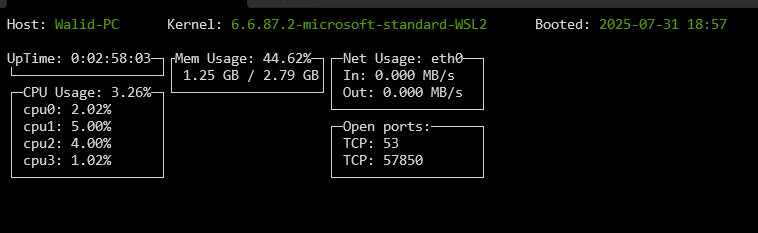
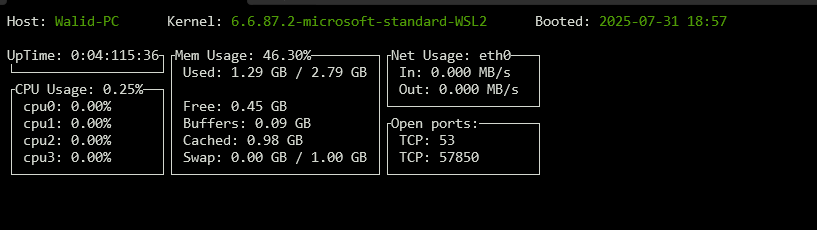
Added more ram info

diff --git a/src/mem.cpp b/src/mem.cpp
@@ -10,7 +10,7 @@ MemInfo::MemInfo()
     std::string Line;
 
     while(std::getline(File, Line)) {
-        if(Line.compare(0, 9, "MemTotal:") == 0) {
+        if(Line.rfind("MemTotal:") == 0) {
             std::istringstream iss(Line);
             std::string label, unit;
 
@@ -21,51 +21,107 @@ MemInfo::MemInfo()
 
             oss << std::fixed << std::setprecision(2) << totalMemGb << " GB";
             totalMemStr = oss.str();
+        } else if(Line.rfind("SwapTotal:") == 0) {
+            std::istringstream iss(Line);
+            std::string label, unit;
+
+            iss >> label >> totalMemSwapNum >> unit;
+
+            double totalMemSwapGb = static_cast<double>(totalMemSwapNum) / (1024 * 1024);
+            std::ostringstream oss;
+
+            oss << std::fixed << std::setprecision(2) << totalMemSwapGb << " GB";
+            totalMemSwapStr = oss.str();
 
             break;
         }
     }
 }
 
-void MemInfo::displayInfo(WINDOW *win, int width)
+void MemInfo::displayInfo(WINDOW *win)
 {
-    unsigned long long memUsage = readMemUsage();
-    double memUsageNum = static_cast<double>(memUsage) / (1024 * 1024);
-    
-    std::ostringstream oss;
-    oss << std::fixed << std::setprecision(2) << 100.0 * memUsage / totalMemNum << "%";
-    std::string memTitle = "Mem Usage: " + oss.str();
-
-    std::ostringstream oss2;
-    oss2 << std::fixed << std::setprecision(2) << memUsageNum << " GB";
+    MemData memdata = readMemData();
     
     wclear(win);
     box(win, 0, 0);
+
+    std::ostringstream oss;
+    oss << std::fixed << std::setprecision(2) << 100.0 * memdata.memusage / totalMemNum << "%";
+    mvwprintw(win, 0, 1, "Mem Usage: %s", oss.str().c_str());
     
-    mvwprintw(win, 0, std::max(1, (int)(width - memTitle.size()) / 2), "%s", memTitle.c_str());
-    mvwprintw(win, 1, 2, "%s / %s", oss2.str().c_str(), totalMemStr.c_str());
-    
+    printInGb(win, 1, "Used:", memdata.memusage, true, totalMemStr.c_str());
+    printInGb(win, 3, "Free:", memdata.memfree);
+    printInGb(win, 4, "Buffers:", memdata.membuffers);
+    printInGb(win, 5, "Cached:", memdata.memcached);
+    printInGb(win, 6, "Swap:", memdata.memswapusage, true, totalMemSwapStr.c_str());
+
     wrefresh(win);
 }
 
-unsigned long long MemInfo::readMemUsage()
+MemData MemInfo::readMemData()
 {
     //std::this_thread::sleep_for(std::chrono::milliseconds(1000));
-
+    MemData memdata;
     std::ifstream File("/proc/meminfo");
     std::string Line;
 
     while(std::getline(File, Line)) {
-        if(Line.compare(0, 13, "MemAvailable:") == 0) {
+        if(Line.rfind("MemFree:") == 0) {
             std::istringstream iss(Line);
             std::string label, unit;
-            unsigned long long availableMem;
+            unsigned long long memfree;
 
-            iss >> label >> availableMem >> unit;
+            iss >> label >> memfree >> unit;
 
-            return totalMemNum - availableMem;
+            memdata.memfree = memfree;
+        } else if(Line.rfind("MemAvailable:") == 0) {
+            std::istringstream iss(Line);
+            std::string label, unit;
+            unsigned long long memavailable;
+
+            iss >> label >> memavailable >> unit;
+
+            memdata.memusage = totalMemNum - memavailable;
+        } else if(Line.rfind("Buffers:") == 0) {
+            std::istringstream iss(Line);
+            std::string label, unit;
+            unsigned long long membuffers;
+
+            iss >> label >> membuffers >> unit;
+
+            memdata.membuffers = membuffers;
+        } else if(Line.rfind("Cached:") == 0) {
+            std::istringstream iss(Line);
+            std::string label, unit;
+            unsigned long long cached;
+
+            iss >> label >> cached >> unit;
+
+            memdata.memcached = cached;
+        } else if(Line.rfind("SwapFree:") == 0) {
+            std::istringstream iss(Line);
+            std::string label, unit;
+            unsigned long long memswapfree;
+
+            iss >> label >> memswapfree >> unit;
+
+            memdata.memswapusage = totalMemSwapNum - memswapfree;
+
+            break;
         }
     }
 
-    return 0;
+    return memdata;
+}
+
+void MemInfo::printInGb(WINDOW* win, const int pos_x, const char* memstr, const unsigned long long mem, bool usage, const char* memusagestr) const
+{
+    std::ostringstream oss;
+    double memcast = static_cast<double>(mem) / (1024 * 1024);
+    oss << std::fixed << std::setprecision(2) << memcast << " GB";
+
+    if(usage)
+        mvwprintw(win, pos_x, 2, "%s %s / %s", memstr, oss.str().c_str(), memusagestr);
+    else
+        mvwprintw(win, pos_x, 2, "%s %s", memstr, oss.str().c_str());
 }

diff --git a/src/main.cpp b/src/main.cpp
@@ -41,9 +41,9 @@ int main()
 
     WINDOW* uptimeWin = newwin(2, width, startY, startX);
     WINDOW* cpuWin = newwin(height, width, startY + 2, startX);
-    WINDOW* memWin = newwin(3, width, startY, startX + width);
-    WINDOW* netWin = newwin(4, width, startY, startX + width * 2);
-    WINDOW* portsWin = newwin(2, width, startY + 4, startX + width * 2);
+    WINDOW* memWin = newwin(8, width + 7, startY, startX + width);
+    WINDOW* netWin = newwin(4, width, startY, startX + width * 2 + 7);
+    WINDOW* portsWin = newwin(2, width, startY + 4, startX + width * 2 + 7);
 
     // PC Info
     displayPcInfo(hostname, kernelversion, booted);
@@ -53,10 +53,10 @@ int main()
             break;
 
         // CPU
-        Cpu.displayInfo(cpuWin, width);
+        Cpu.displayInfo(cpuWin);
         
         // RAM
-        Mem.displayInfo(memWin, width);
+        Mem.displayInfo(memWin);
 
         // UPTIME
         upTime.displayInfo(uptimeWin);

diff --git a/src/internet.cpp b/src/internet.cpp
@@ -151,7 +151,8 @@ void NetInfo::displayInfo(WINDOW* win, WINDOW* win_ports)
         wclear(win);
         box(win, 0, 0);
         
-        mvwprintw(win, 0, 2, "Net Usage: %s", wan_if.c_str());
+        mvwprintw(win, 0, 1, "Net Usage: %s", wan_if.c_str());
+
         mvwprintw(win, 1, 2, "In: %.3f MB/s", received);
         mvwprintw(win, 2, 2, "Out: %.3f MB/s", transmitted);
 
@@ -166,7 +167,7 @@ void NetInfo::displayInfo(WINDOW* win, WINDOW* win_ports)
         const size_t ports_count = OpenPorts.size();
         if(ports_count > 0) {
             wresize(win_ports, 2 + ports_count, 20);
-            mvwprintw(win_ports, 0, 2, "Open ports:");
+            mvwprintw(win_ports, 0, 1, "Open ports:");
 
             for(size_t i = 0; i < ports_count; i++) {
                 const PortData& portdata = OpenPorts.at(i);

diff --git a/src/include/mem.h b/src/include/mem.h
@@ -1,12 +1,26 @@
 #pragma once
 #include <ncurses.h>
 
+struct MemData {
+    unsigned long long memusage;
+    unsigned long long memfree;
+    unsigned long long membuffers;
+    unsigned long long memcached;
+    unsigned long long memswapusage;
+};
+
 class MemInfo {
 public:
     MemInfo();
 
-    unsigned long long readMemUsage();
+    MemData readMemData();
+    void displayInfo(WINDOW* win);
+private:
+    void printInGb(WINDOW* win, int pos_x, const char* memstr, unsigned long long mem, bool usage = false, const char* memusagestr = nullptr) const;
+
     unsigned long long totalMemNum;
     std::string totalMemStr;
-    void displayInfo(WINDOW* win, int width);
+
+    unsigned long long totalMemSwapNum;
+    std::string totalMemSwapStr;
 };

diff --git a/src/cpu.cpp b/src/cpu.cpp
@@ -52,7 +52,7 @@ CpuInfo::~CpuInfo()
         updater.join();
 }
 
-void CpuInfo::displayInfo(WINDOW *win, int width)
+void CpuInfo::displayInfo(WINDOW *win)
 {
     std::string usage = getCpuUsage();
     std::istringstream iss(usage);
@@ -63,7 +63,7 @@ void CpuInfo::displayInfo(WINDOW *win, int width)
     
     wclear(win);
     box(win, 0, 0);
-    mvwprintw(win, 0, (width - cpuTitle.size()) / 2, "%s", cpuTitle.c_str());
+    mvwprintw(win, 0, 1, "%s", cpuTitle.c_str());
     
     int line = 1;
     while(std::getline(iss, lineText)) {

diff --git a/src/include/cpu.h b/src/include/cpu.h
@@ -24,7 +24,7 @@ public:
     ~CpuInfo();
 
     std::string getCpuUsage();
-    void displayInfo(WINDOW* win, int width);
+    void displayInfo(WINDOW* win);
 
 private:
     std::atomic<float> usage{0.0f};
